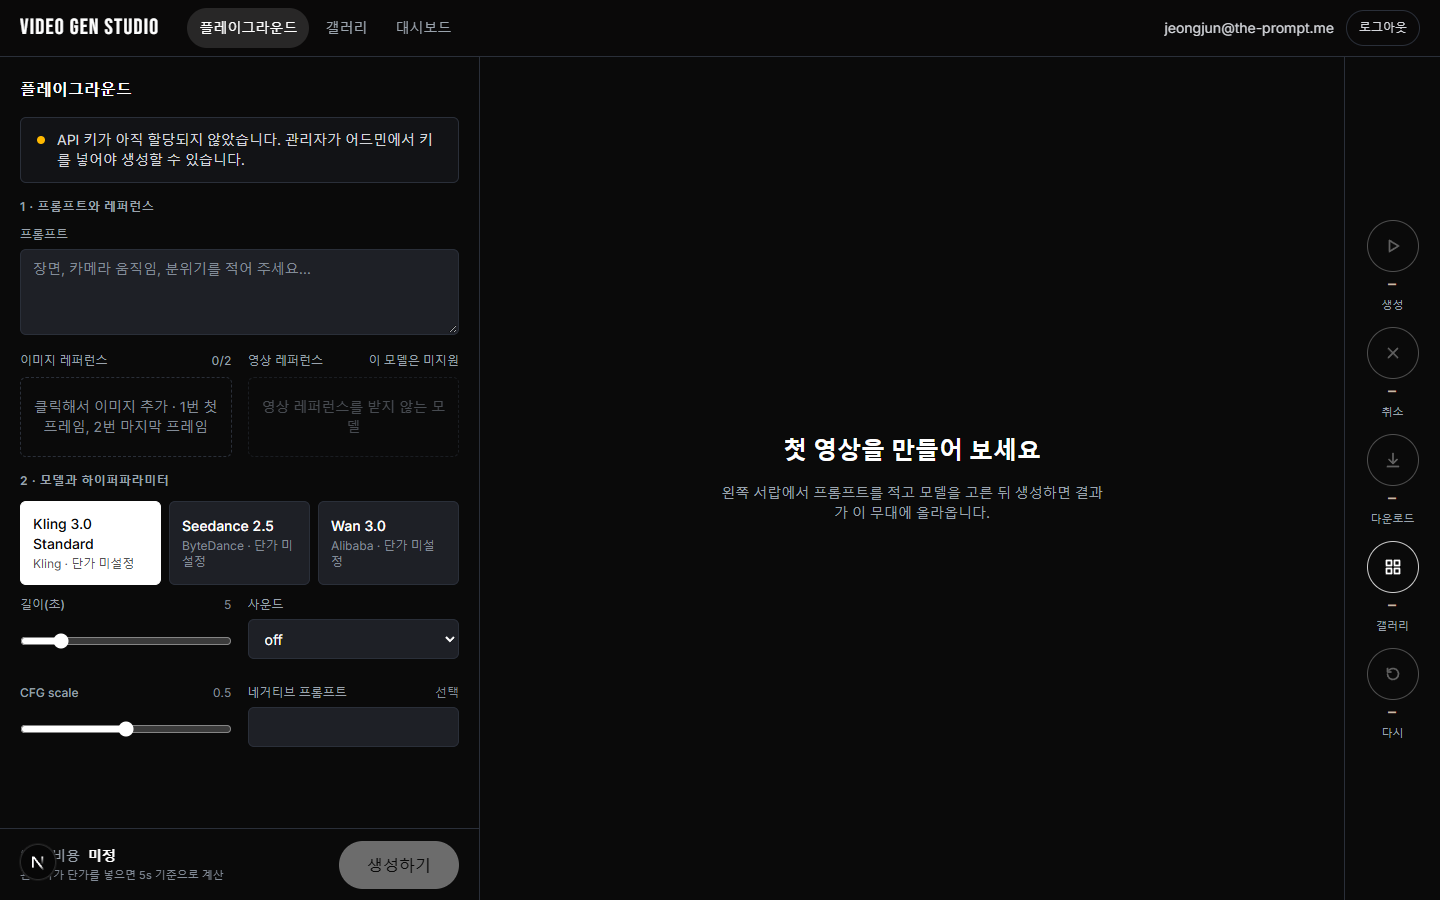
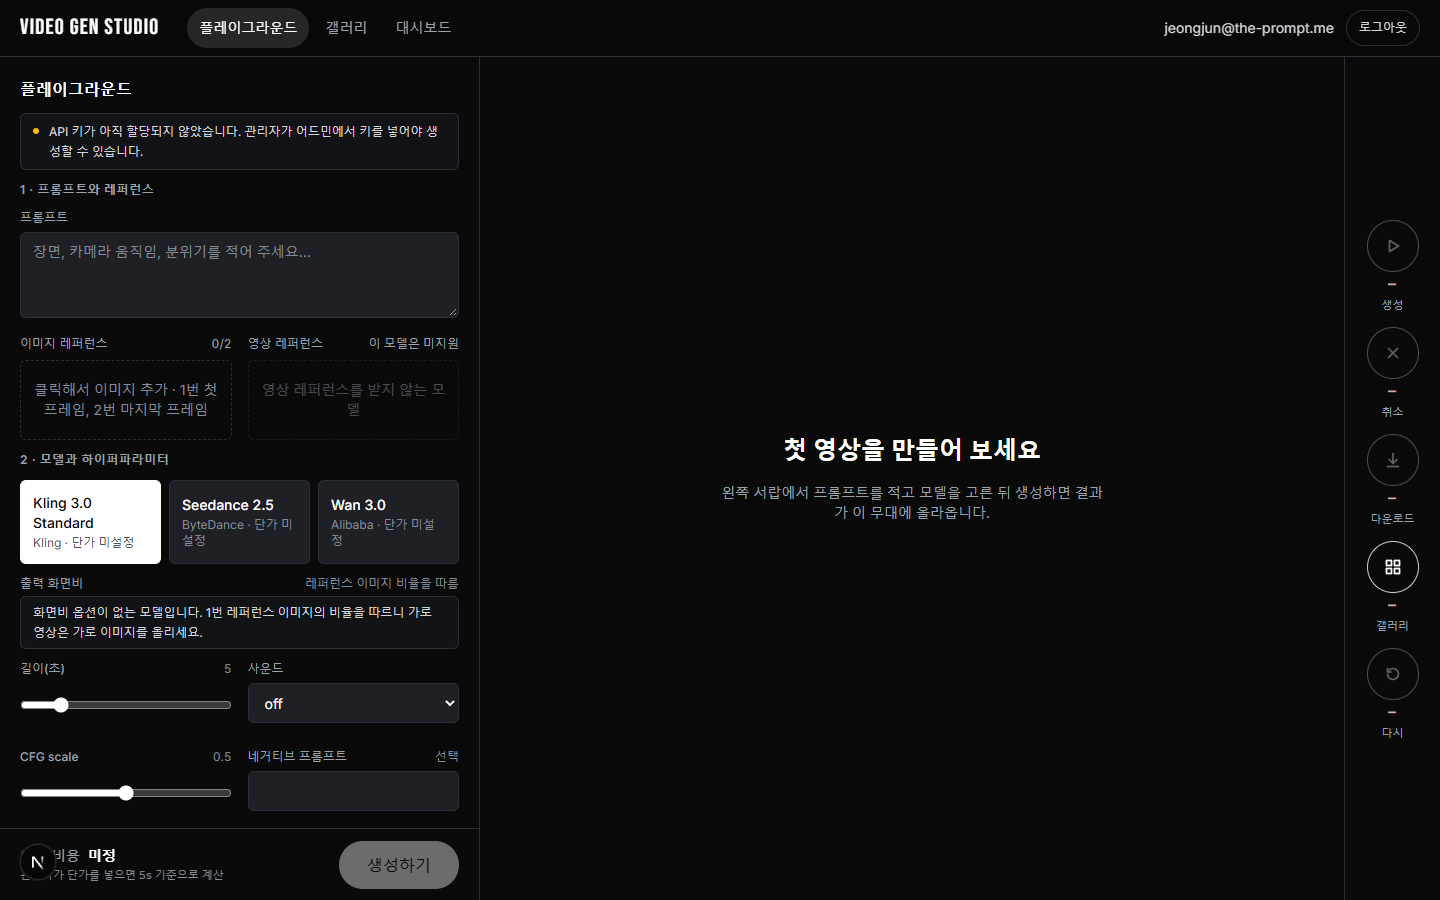
[기능] 출력 화면비 선택 (가로·세로·정사각)
왜: 세로 피드 레이아웃 때문에 세로 영상만 만드는 것처럼 보였고, 화면비가 일반 파라미터 사이에 묻혀 있었다
무엇:
- Playground.tsx: 모델 선택 바로 아래 "출력 화면비" 알약 토글(가로 16:9·21:9·4:3, 세로 9:16·3:4, 정사각, 레퍼런스 따라감). Seedance·Wan의 aspect_ratio 파라미터에 연결하고 일반 그리드에서는 제외
- Playground.tsx: Kling 3.0(화면비 옵션 없음)은 1번 레퍼런스 이미지 비율을 따른다는 안내와, 업로드한 이미지의 픽셀 크기로 가로/세로 판정 표시
- Playground.tsx: API 키 배너와 안내 박스를 한 단계 작게 해 파라미터가 900px 안에 유지됨
검증: npx tsc --noEmit 오류 없음, eslint 0 errors, Playwright로 Seedance 세로 9:16 선택 시 aria-pressed 전환·Wan 기본 "레퍼런스 따라감" 확인, 1440x900 비용 바(828px) 위에 모든 파라미터 수납, 콘솔 오류 0

Changed region(s): [[0.0, 0.3422, 0.3438, 0.9022], [0.0, 0.1244, 0.3438, 0.3111]]

diff --git a/src/components/Playground.tsx b/src/components/Playground.tsx
@@ -10,7 +10,33 @@ import { Button, ErrorText, Field, Input, Select, Textarea } from "@/components/
 import { StatusBadge } from "@/components/StatusBadge";
 
 type ModelWithPrice = ModelSpec & { pricePerSecUsd: number };
-type Ref = { url: string; name: string; kind: "image" | "video"; local?: string };
+type Ref = { url: string; name: string; kind: "image" | "video"; local?: string; w?: number; h?: number };
+
+const ASPECT_LABEL: Record<string, string> = {
+  "16:9": "가로 16:9",
+  "21:9": "가로 21:9",
+  "4:3": "가로 4:3",
+  "9:16": "세로 9:16",
+  "3:4": "세로 3:4",
+  "1:1": "정사각 1:1",
+  adaptive: "레퍼런스 따라감",
+};
+
+function orientation(w?: number, h?: number) {
+  if (!w || !h) return null;
+  const r = w / h;
+  return r > 1.05 ? "가로" : r < 0.95 ? "세로" : "정사각";
+}
+
+function readImageSize(file: File): Promise<{ w: number; h: number } | null> {
+  return new Promise((resolve) => {
+    const img = new Image();
+    const url = URL.createObjectURL(file);
+    img.onload = () => { resolve({ w: img.naturalWidth, h: img.naturalHeight }); URL.revokeObjectURL(url); };
+    img.onerror = () => { resolve(null); URL.revokeObjectURL(url); };
+    img.src = url;
+  });
+}
 
 const SMALL = 4 * 1024 * 1024;
 const MAX_IMAGES = 6;
@@ -296,7 +322,8 @@ export function Playground({ models, hasApiKey, largeUploads, galleryCount }: { 
     try {
       for (const f of picked) {
         const url = await uploadFile(f, largeUploads);
-        setRefs((r) => [...r, { url, name: f.name, kind, local: URL.createObjectURL(f) }]);
+        const size = kind === "image" ? await readImageSize(f) : null;
+        setRefs((r) => [...r, { url, name: f.name, kind, local: URL.createObjectURL(f), w: size?.w, h: size?.h }]);
       }
     } catch (e) {
       setError(e instanceof Error ? e.message : String(e));
@@ -352,6 +379,15 @@ export function Playground({ models, hasApiKey, largeUploads, galleryCount }: { 
 
   if (!model) return <div className="p-8 text-center text-sm text-subtle">사용할 수 있는 모델이 없습니다. 관리자에게 문의하세요.</div>;
 
+  const aspectSpec = model.params.find((p): p is Extract<ParamSpec, { type: "enum" }> => p.key === "aspect_ratio" && p.type === "enum");
+  const firstImage = images[0];
+  const currentAspect: [number?, number?] = (() => {
+    const v = aspectSpec ? String(params[aspectSpec.key]) : "";
+    const m = /^(\d+):(\d+)$/.exec(v);
+    if (m) return [Number(m[1]), Number(m[2])];
+    if (v === "adaptive" && firstImage?.w && firstImage.h) return [firstImage.w, firstImage.h];
+    return [undefined, undefined];
+  })();
   const canGenerate = hasApiKey && !submitting && !uploading;
   const canCancel = Boolean(active && active.status === "queued");
   const activeStarted = active ? new Date(active.createdAt).getTime() : 0;
@@ -416,12 +452,12 @@ export function Playground({ models, hasApiKey, largeUploads, galleryCount }: { 
 
       {/* DRAWER: the form that puts the next item on the stage. */}
       <aside aria-label="생성 설정" className="order-2 flex w-full flex-col border-t border-border bg-background lg:order-1 lg:h-full lg:w-[480px] lg:shrink-0 lg:border-r lg:border-t-0">
-        <div className="min-h-0 flex-1 space-y-4 overflow-y-auto p-5">
+        <div className="min-h-0 flex-1 space-y-3 overflow-y-auto p-5">
           <h1 className="text-base font-semibold">플레이그라운드</h1>
 
           {!hasApiKey && (
-            <div role="status" className="flex items-start gap-3 rounded-md border border-border bg-surface px-4 py-3 text-sm text-foreground-2">
-              <span aria-hidden className="mt-1.5 h-2 w-2 shrink-0 rounded-full bg-amber-400" />
+            <div role="status" className="flex items-start gap-2.5 rounded-md border border-border bg-surface px-3 py-2 text-xs leading-relaxed text-foreground-2">
+              <span aria-hidden className="mt-1.5 h-1.5 w-1.5 shrink-0 rounded-full bg-amber-400" />
               <span>API 키가 아직 할당되지 않았습니다. 관리자가 어드민에서 키를 넣어야 생성할 수 있습니다.</span>
             </div>
           )}
@@ -486,8 +522,40 @@ export function Playground({ models, hasApiKey, largeUploads, galleryCount }: { 
                 );
               })}
             </div>
+            <div className="space-y-1">
+              <div className="flex items-baseline justify-between gap-3 text-xs font-medium text-muted">
+                <span>출력 화면비</span>
+                {aspectSpec ? (
+                  <span className="font-normal text-subtle">{orientation(...currentAspect) ?? ""}</span>
+                ) : (
+                  <span className="font-normal text-subtle">레퍼런스 이미지 비율을 따름</span>
+                )}
+              </div>
+              {aspectSpec ? (
+                <div role="group" aria-label="출력 화면비" className="flex flex-wrap gap-1.5">
+                  {aspectSpec.options.map((o) => {
+                    const on = String(params[aspectSpec.key]) === o;
+                    return (
+                      <button key={o} type="button" aria-pressed={on} onClick={() => setParams((st) => ({ ...st, [aspectSpec.key]: o }))} className={`inline-flex min-h-9 items-center rounded-full border px-3 text-xs transition focus:outline-none focus-visible:ring-2 focus-visible:ring-accent focus-visible:ring-offset-2 focus-visible:ring-offset-background ${on ? "border-foreground bg-foreground text-background" : "border-border text-foreground-2 hover:border-foreground/60"}`}>
+                        {ASPECT_LABEL[o] ?? o}
+                      </button>
+                    );
+                  })}
+                </div>
+              ) : (
+                <p className="rounded-md border border-border bg-surface px-3 py-1.5 text-xs leading-relaxed text-foreground-2">
+                  {firstImage?.w && firstImage.h ? (
+                    <>
+                      1번 레퍼런스가 <span className="tabular-nums">{firstImage.w}×{firstImage.h}</span>({orientation(firstImage.w, firstImage.h)})이라 영상도 <span className="font-medium text-foreground">{orientation(firstImage.w, firstImage.h)}</span>로 나옵니다. 가로 영상이 필요하면 가로 이미지를 올리세요.
+                    </>
+                  ) : (
+                    <>화면비 옵션이 없는 모델입니다. 1번 레퍼런스 이미지의 비율을 따르니 가로 영상은 가로 이미지를 올리세요.</>
+                  )}
+                </p>
+              )}
+            </div>
             <div className="grid gap-4 sm:grid-cols-2">
-              {model.params.map((p) => (
+              {model.params.filter((p) => p.key !== "aspect_ratio").map((p) => (
                 <ParamInput key={p.key} spec={p} value={params[p.key]} onChange={(v) => setParams((s) => ({ ...s, [p.key]: v }))} />
               ))}
             </div>
